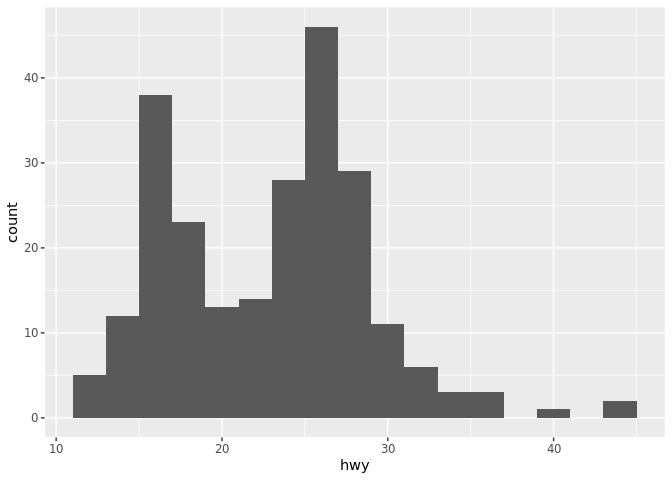
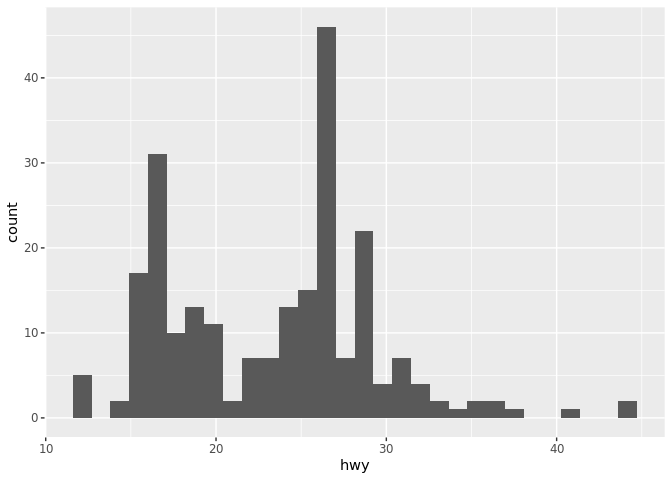
completed w4 class

diff --git a/Week-4-Visualize-Exercises.md b/Week-4-Visualize-Exercises.md
@@ -69,8 +69,10 @@ Make a histogram of the `hwy` variable from `mpg`. Hint: do not supply a y varia
 
 ``` r
 ggplot(data = mpg) +
-  geom_histogram(mapping = aes(x = hwy), binwidth  = 2)
+  geom_histogram(mapping = aes(x = hwy))
 ```
+
+    `stat_bin()` using `bins = 30`. Pick better value with `binwidth`.
 
 ![](Week-4-Visualize-Exercises_files/figure-markdown_github/unnamed-chunk-4-1.png)
 
@@ -79,6 +81,13 @@ Your Turn 4
 
 Use the help page for `geom_histogram` to make the bins 2 units wide.
 
+``` r
+ggplot(data = mpg) +
+  geom_histogram(mapping = aes(x = hwy), binwidth  = 2)
+```
+
+![](Week-4-Visualize-Exercises_files/figure-markdown_github/unnamed-chunk-5-1.png)
+
 Your Turn 5
 -----------
 
@@ -86,7 +95,7 @@ Add `color`, `size`, `alpha`, and `shape` aesthetics to your graph. Experiment.
 
 ``` r
 ggplot(data = mpg) +
-  geom_point(mapping = aes(x = displ, y = hwy))
+  geom_point(mapping = aes(x = displ, y = hwy, color = class, shape = fl))
 ```
 
 ![](Week-4-Visualize-Exercises_files/figure-markdown_github/unnamed-chunk-6-1.png)
@@ -127,6 +136,13 @@ Your Turn 6
 -----------
 
 Make a bar chart `class` colored by `class`. Use the help page for `geom_bar` to choose a "color" aesthetic for class.
+
+``` r
+ggplot(data =mpg) +
+  geom_bar(mapping = aes(x = class, color = class, fill = drv))
+```
+
+![](Week-4-Visualize-Exercises_files/figure-markdown_github/unnamed-chunk-8-1.png)
 
 Quiz
 ----
